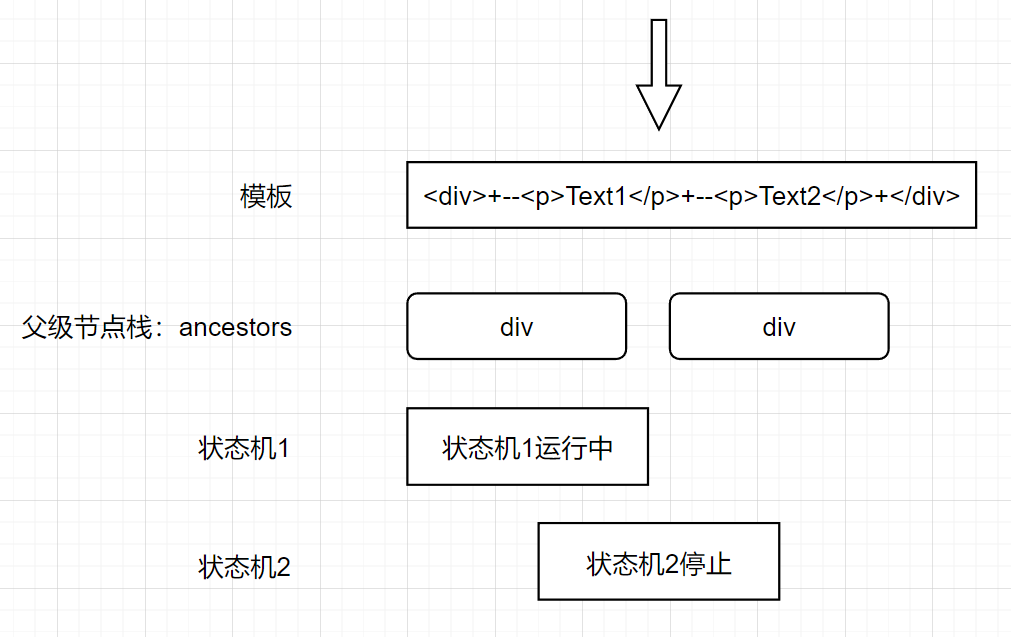
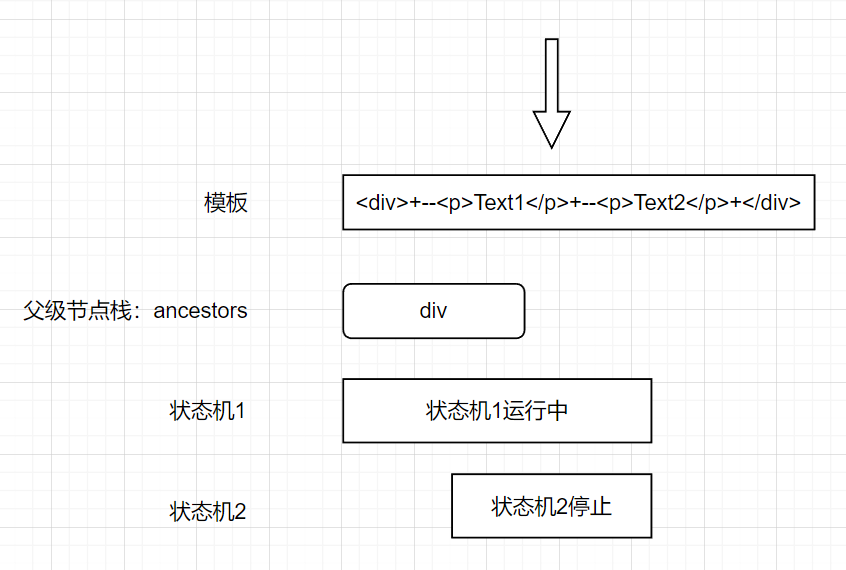
feat(vue3): state machine

diff --git a/books/Vue.js设计与实现/compiler/index11.js b/books/Vue.js设计与实现/compiler/index11.js
@@ -52,11 +52,13 @@ function parseChildren(context, ancestors) {
           }
         } else if (source[1] === '/') {
           // 结束标签，这里需要抛出错误
+          console.error('无效的结束标签')
+          continue
         } else if (/[a-z]/i.test(source[1])) {
           // 标签
           node = parseElement(context, ancestors)
         }
-      } else if (source.starsWidth('{{')) {
+      } else if (source.startsWith('{{')) {
         // 解析插值
         node = parseInterpolation(context)
       }
@@ -77,7 +79,18 @@ function parseChildren(context, ancestors) {
   return nodes
 }
 
+function isEnd(context, ancestors) {
+  // 当模板内容解析完毕后，停止
+  if (!context.source) return true
 
+  // 与父级节点栈中所有节点比较
+  for (let i = ancestors.length - 1; i >= 0; --i) {
+    // 只要栈中存在与当前结束标签同名的节点，就停止状态机
+    if (parent && context.source.startsWith(`</${ancestors[i].tag}`)) {
+      return true
+    }
+  }
+}
 
 // const template = `<div>
 //   <p>Text1</>

diff --git a/books/Vue.js设计与实现/README.md b/books/Vue.js设计与实现/README.md
@@ -12633,7 +12633,7 @@ function parseChildren(context, ancestors) {
           // 标签
           node = parseElement(context, ancestors)
         }
-      } else if (source.starsWidth('{{')) {
+      } else if (source.startsWith('{{')) {
         // 解析插值
         node = parseInterpolation(context)
       }
@@ -12795,4 +12795,127 @@ function parseChildren(context, ancestors) {
 <img src="./images/parser09.png" />
 
 此时 “状态机2” 已经停止运行，“状态机1” 继续工作。于是回解析解析模板，直到遇到下一个 `<p>` 标签。这是 "状态机1" 会再次调用 `parseElement` 函数解析标签节点，因此又会执行压栈并开启新的 “状态机3”。
+
+<img src="./images/parser10.png" />
+
+此时 “状态机3” 拥有程序的执行权，它会继续解析模板，直到遇到结束标签 `</p>`。因为这是一个结束标签，并且在父级节点栈中存在与该结束标签同名的标签节点，所以 “状态机3” 会停止运行，并弹出父级节点栈中处于栈顶的节点。
+
+<img src="./images/parser11.png" />
+
+当 “状态机3” 停止运行后，程序的执行权会交还给 “状态机1”。“状态机1” 会继续解析模板，直到遇到最后的 `</div>` 结束标签。这时 “状态机1” 会发现节点栈中存在与结束标签同名的标签节点，于是将该节点弹出父级节点栈，并停止运行。
+
+<img src="./images/parser12.png" />
+
+这时父级节点栈为空，状态机全部停止运行，模板解析完毕。
+
+通过上面的描述，我们能够清晰地认识到，解析器会在何时开启新的状态机，以及状态机会在何时停止。结论是：当解析器遇到开始标签时，会将该标签压入父级节点栈中，同时开启新的状态机。当解析器遇到结束标签，并且父级节点栈中存在与该标签同名的开始标签节点时，会停止当前正在运行的状态机。根据上述规则，我们可以给出 `isEnd` 函数的逻辑。
+
+```js
+function isEnd(context, ancestors) {
+  // 当模板内容解析完毕后，停止
+  if (!context.source) return true
+  // 获取父级标签节点
+  const parent = ancestors[ancestors.length - 1]
+  // 如果遇到结束标签，并且该标签与父级标签节点同名，则停止
+  if (parent && context.source.startsWith(`</${parent.tag}`)) {
+    return true
+  }
+}
+```
+
+上面这段代码展示了状态机的停止时机：
+
+* 第一个停止时是当模板内容被解析完毕时；
+* 第二个停止时机则是在遇到结束标签时，这时解析器会取得父级节点栈栈顶的节点作为父节点，检查该结束标签是否与父节点的标签同名，如果相同，则状态机停止运行。
+
+这里需要注意的是，在第二个停止时机中，我们直接比较结束标签的名称与栈顶节点的标签名称。这么做确实可行，但严格来说也是有问题的。例如下面的模板所示：
+
+```html
+<div><span></div></span>
+```
+
+观察上述模板，它存在一个明显的问题。这段模板有两种解释方式，下图给出了第一种。
+
+<img src="./images/parser13.png" />
+
+这种解释方式的流程如下：
+
+* “状态机1'' 遇到 `<div>` 开始标签，调用 `parseElement` 解析函数，这会开启 ”状态机 2“ 来完成子节点的解析。
+* ”状态机2“ 遇到 `<span>` 开始标签，调用 `parseElement` 解析函数，这回开启 "状态机3" 来完成子节点的解析。
+* "状态机3" 遇到 `</div>` 结束标签。由于此时父级节点栈顶的节点名称是 `span`，并不是 `div`，所以 `状态机3` 不会停止运行。这时，"状态机3" 遇到了不符合预期的状态，因为结束标签 `</div>` 缺少与之对应的开始标签，所以这时 "状态3" 会抛出错误：”无效的结束标签“。
+
+上述流程的思路与我们当前的实现相符，状态机会遭遇不符合预期的状态。`parseChildren` 函数的代码可以体现这一点。
+
+```js
+function parseChildren(context, ancestors) {
+  // 定义 nodes 数组存储子节点，它将作为最终的返回值
+  let nodes = []
+  // 从上下文对象中取得当前状态，包括模式 mode 和模板内容 source
+  const { mode, source } = context
+
+  // 开始 while 循环，只要满足条件就会一直对字符串进行解析
+  while (!isEnd(context, ancestors)) {
+    let node
+    // 只有 DATA 模式和 RCDATA 模式才支持插值节点的解析
+    if (mode === TextModes.DATA || mode === TextModes.RCDATA) {
+      // 只有 DATA 模式才支持标签节点的解析
+      if (mode === TextModes.DATA && source[0] === '<') {
+        if (source[1] === '!') {
+          if (source.starsWidth('<!--')) {
+            // 注释
+            node = parseComment(context)
+          } else if (source.starsWidth('<![CDATA[')) {
+            // CDATA
+            node = parseCDATA(context, ancestors)
+          }
+        } else if (source[1] === '/') {
+          // 结束标签，这里需要抛出错误
+          console.error('无效的结束标签')
+          continue
+        } else if (/[a-z]/i.test(source[1])) {
+          // 标签
+          node = parseElement(context, ancestors)
+        }
+      } else if (source.startsWith('{{')) {
+        // 解析插值
+        node = parseInterpolation(context)
+      }
+    }
+		
+    // ...
+  }
+
+  // 当 while 循环停止后，说明子节点解析完毕，返回子节点
+  return nodes
+}
+```
+
+换句话来说，按照我们当前的实现思路来解析上述例子中的模板，最终得到的错误信息是：“无效的结束标签”。但其实还有另外一个更好的解析方式。观察上例中给出的模板，其实存在一段完整的内容。
+
+<img src="./images/parser14.png" />
+
+从图中可以看到，模板中存在一段完整的内容，我们希望解析器可以正常对其进行解析，这很可能也是符合用户意图的。但实际上，无论是哪一种解析方式，对程序的影响都不大。两者的区别体现在错误处理上。对于第一种解析方式，我们得到的错误信息是：“无效的结束标签”。而对于第二种解析方式，在 “完整的内容” 部分被解析完毕后，解析器就会打印错误信息，“`<span>`标签缺少闭合标签” 。很显然，第二种解析方式更加合理。
+
+为了实现第二种解析方式，我们需要调整 `isEnd` 函数的逻辑。当判断状态机是否应该停止时，我们不应该总是与栈顶的父级节点做比较，而是应该与整个父级节点栈的的所有节点做比较。只要父级节点栈中存在与当前遇到的结束标签同名的节点，就停止状态机。
+
+```js
+function isEnd(context, ancestors) {
+  // 当模板内容解析完毕后，停止
+  if (!context.source) return true
+
+  // 与父级节点栈中所有节点比较
+  for (let i = ancestors.length - 1; i >= 0; --i) {
+    // 只要栈中存在与当前结束标签同名的节点，就停止状态机
+    if (parent && context.source.startsWith(`</${ancestors[i].tag}`)) {
+      return true
+    }
+  }
+}
+```
+
+按照新的思路再次对以下模板进行解析：
+
+```html
+<div><span></div></span>
+```
 
